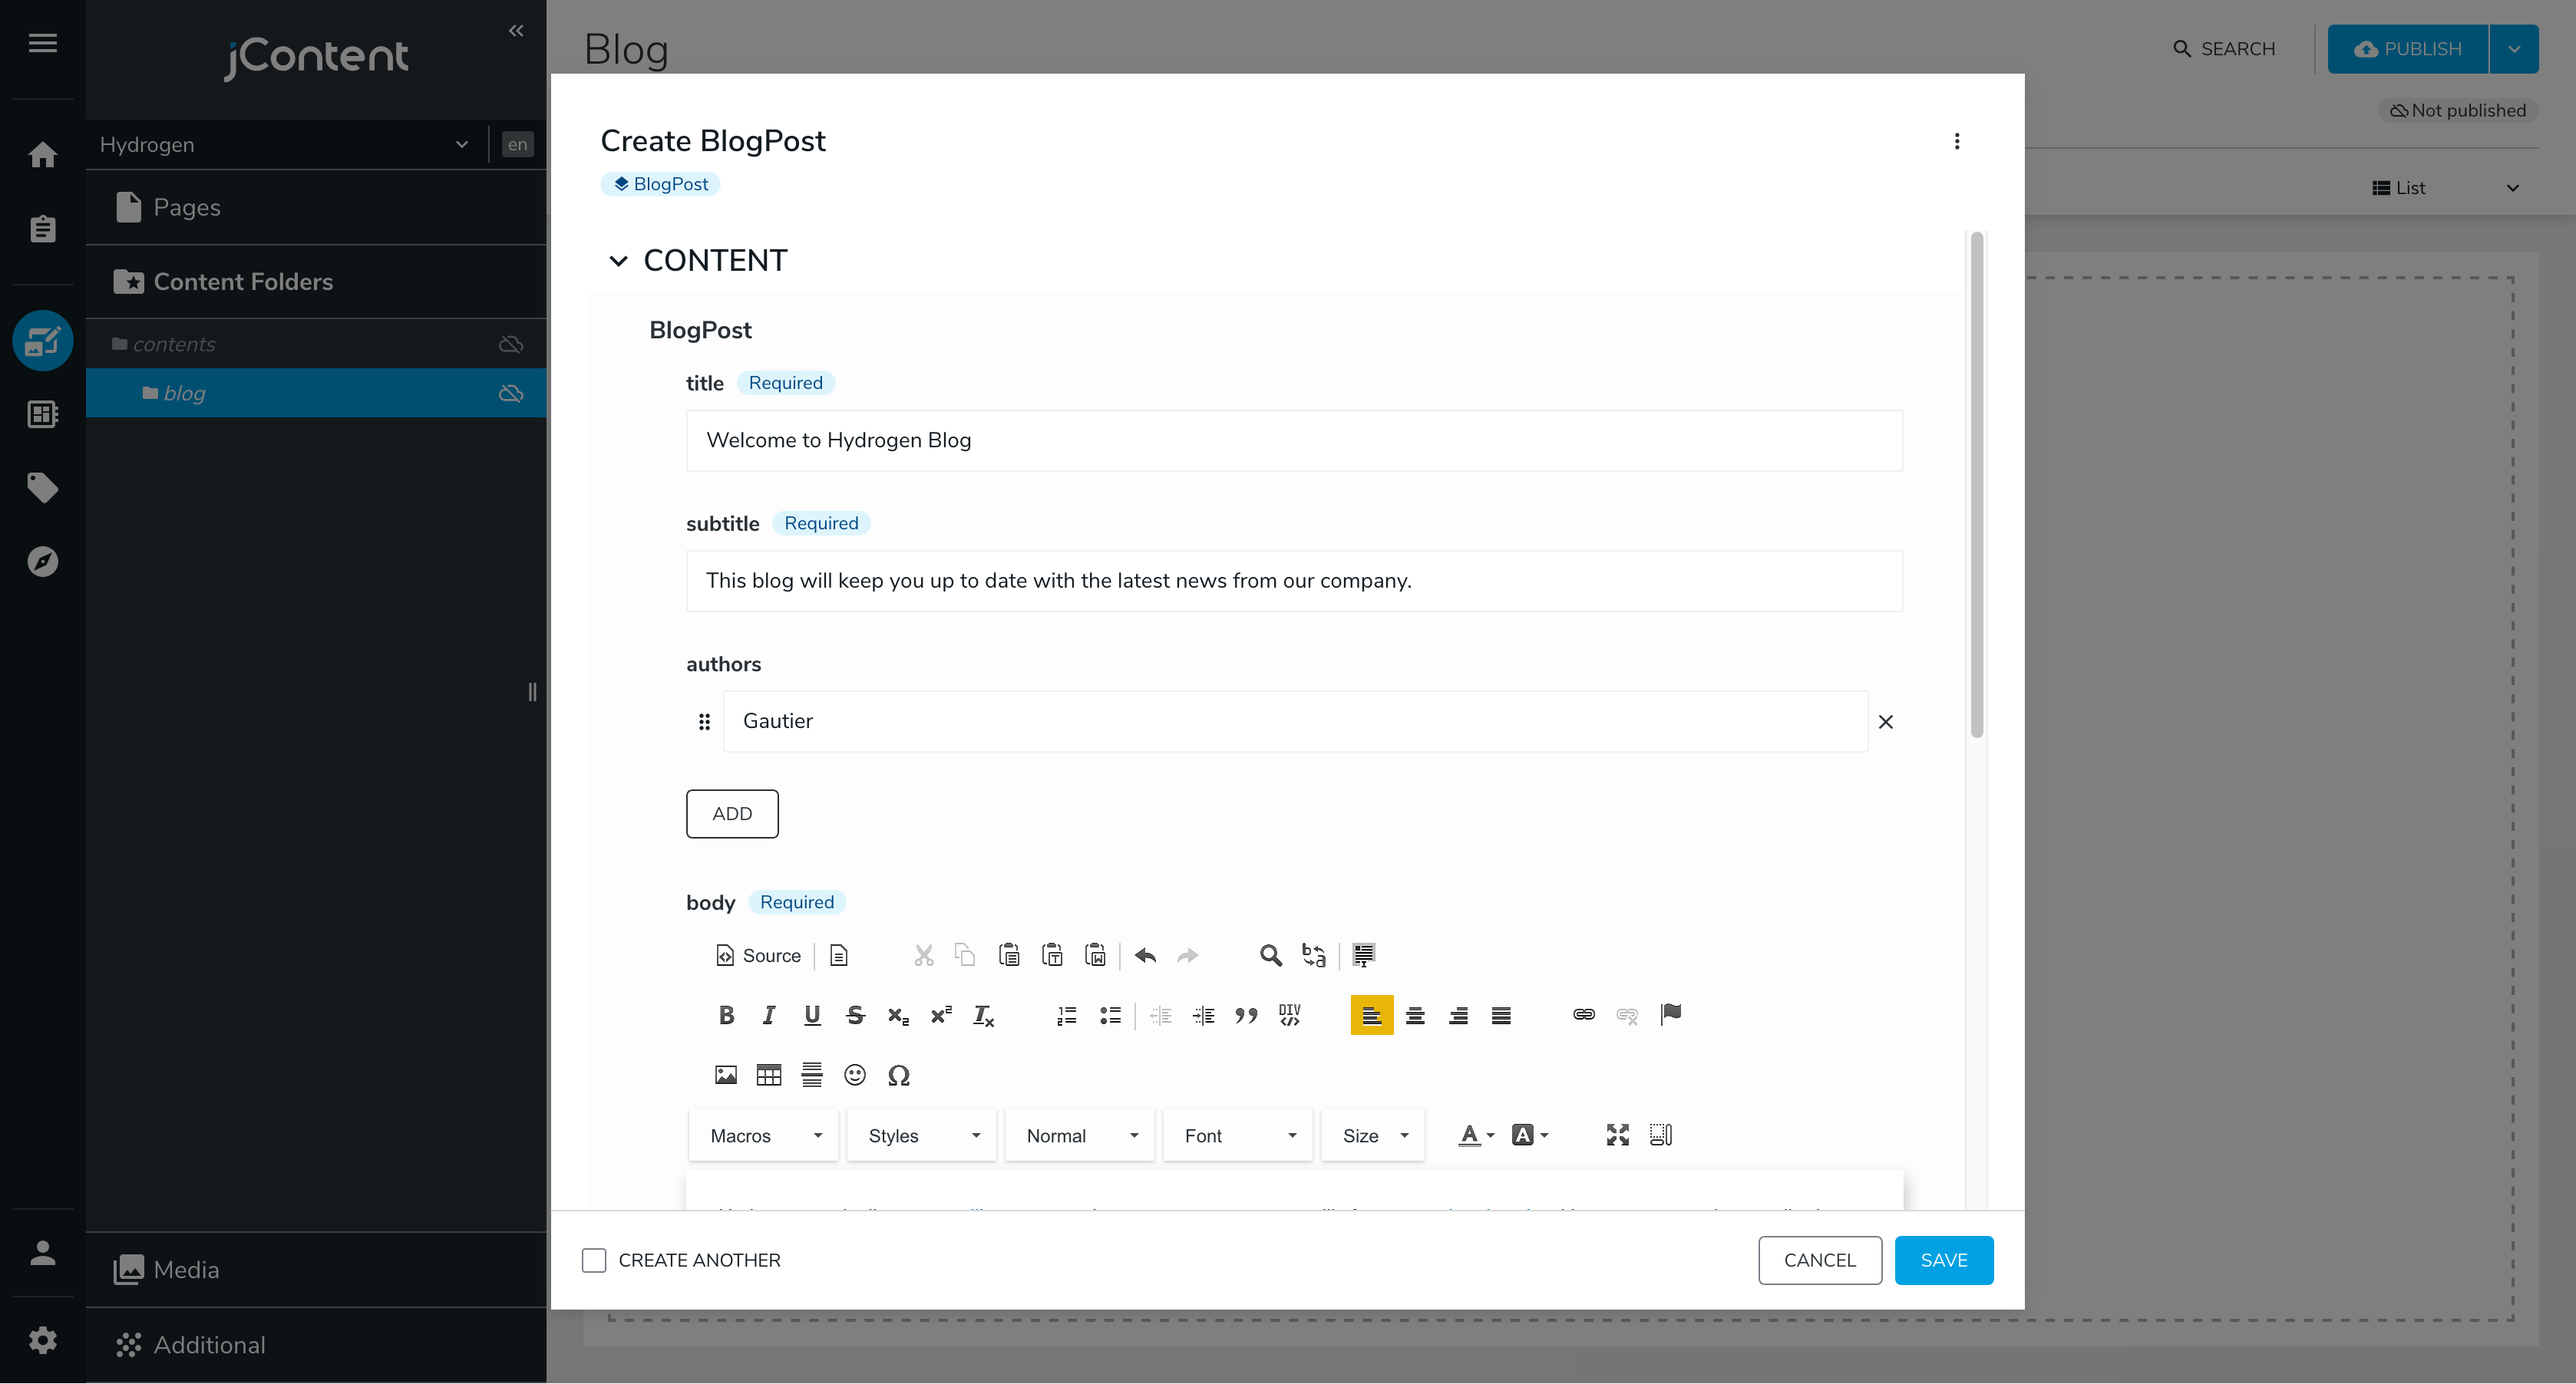
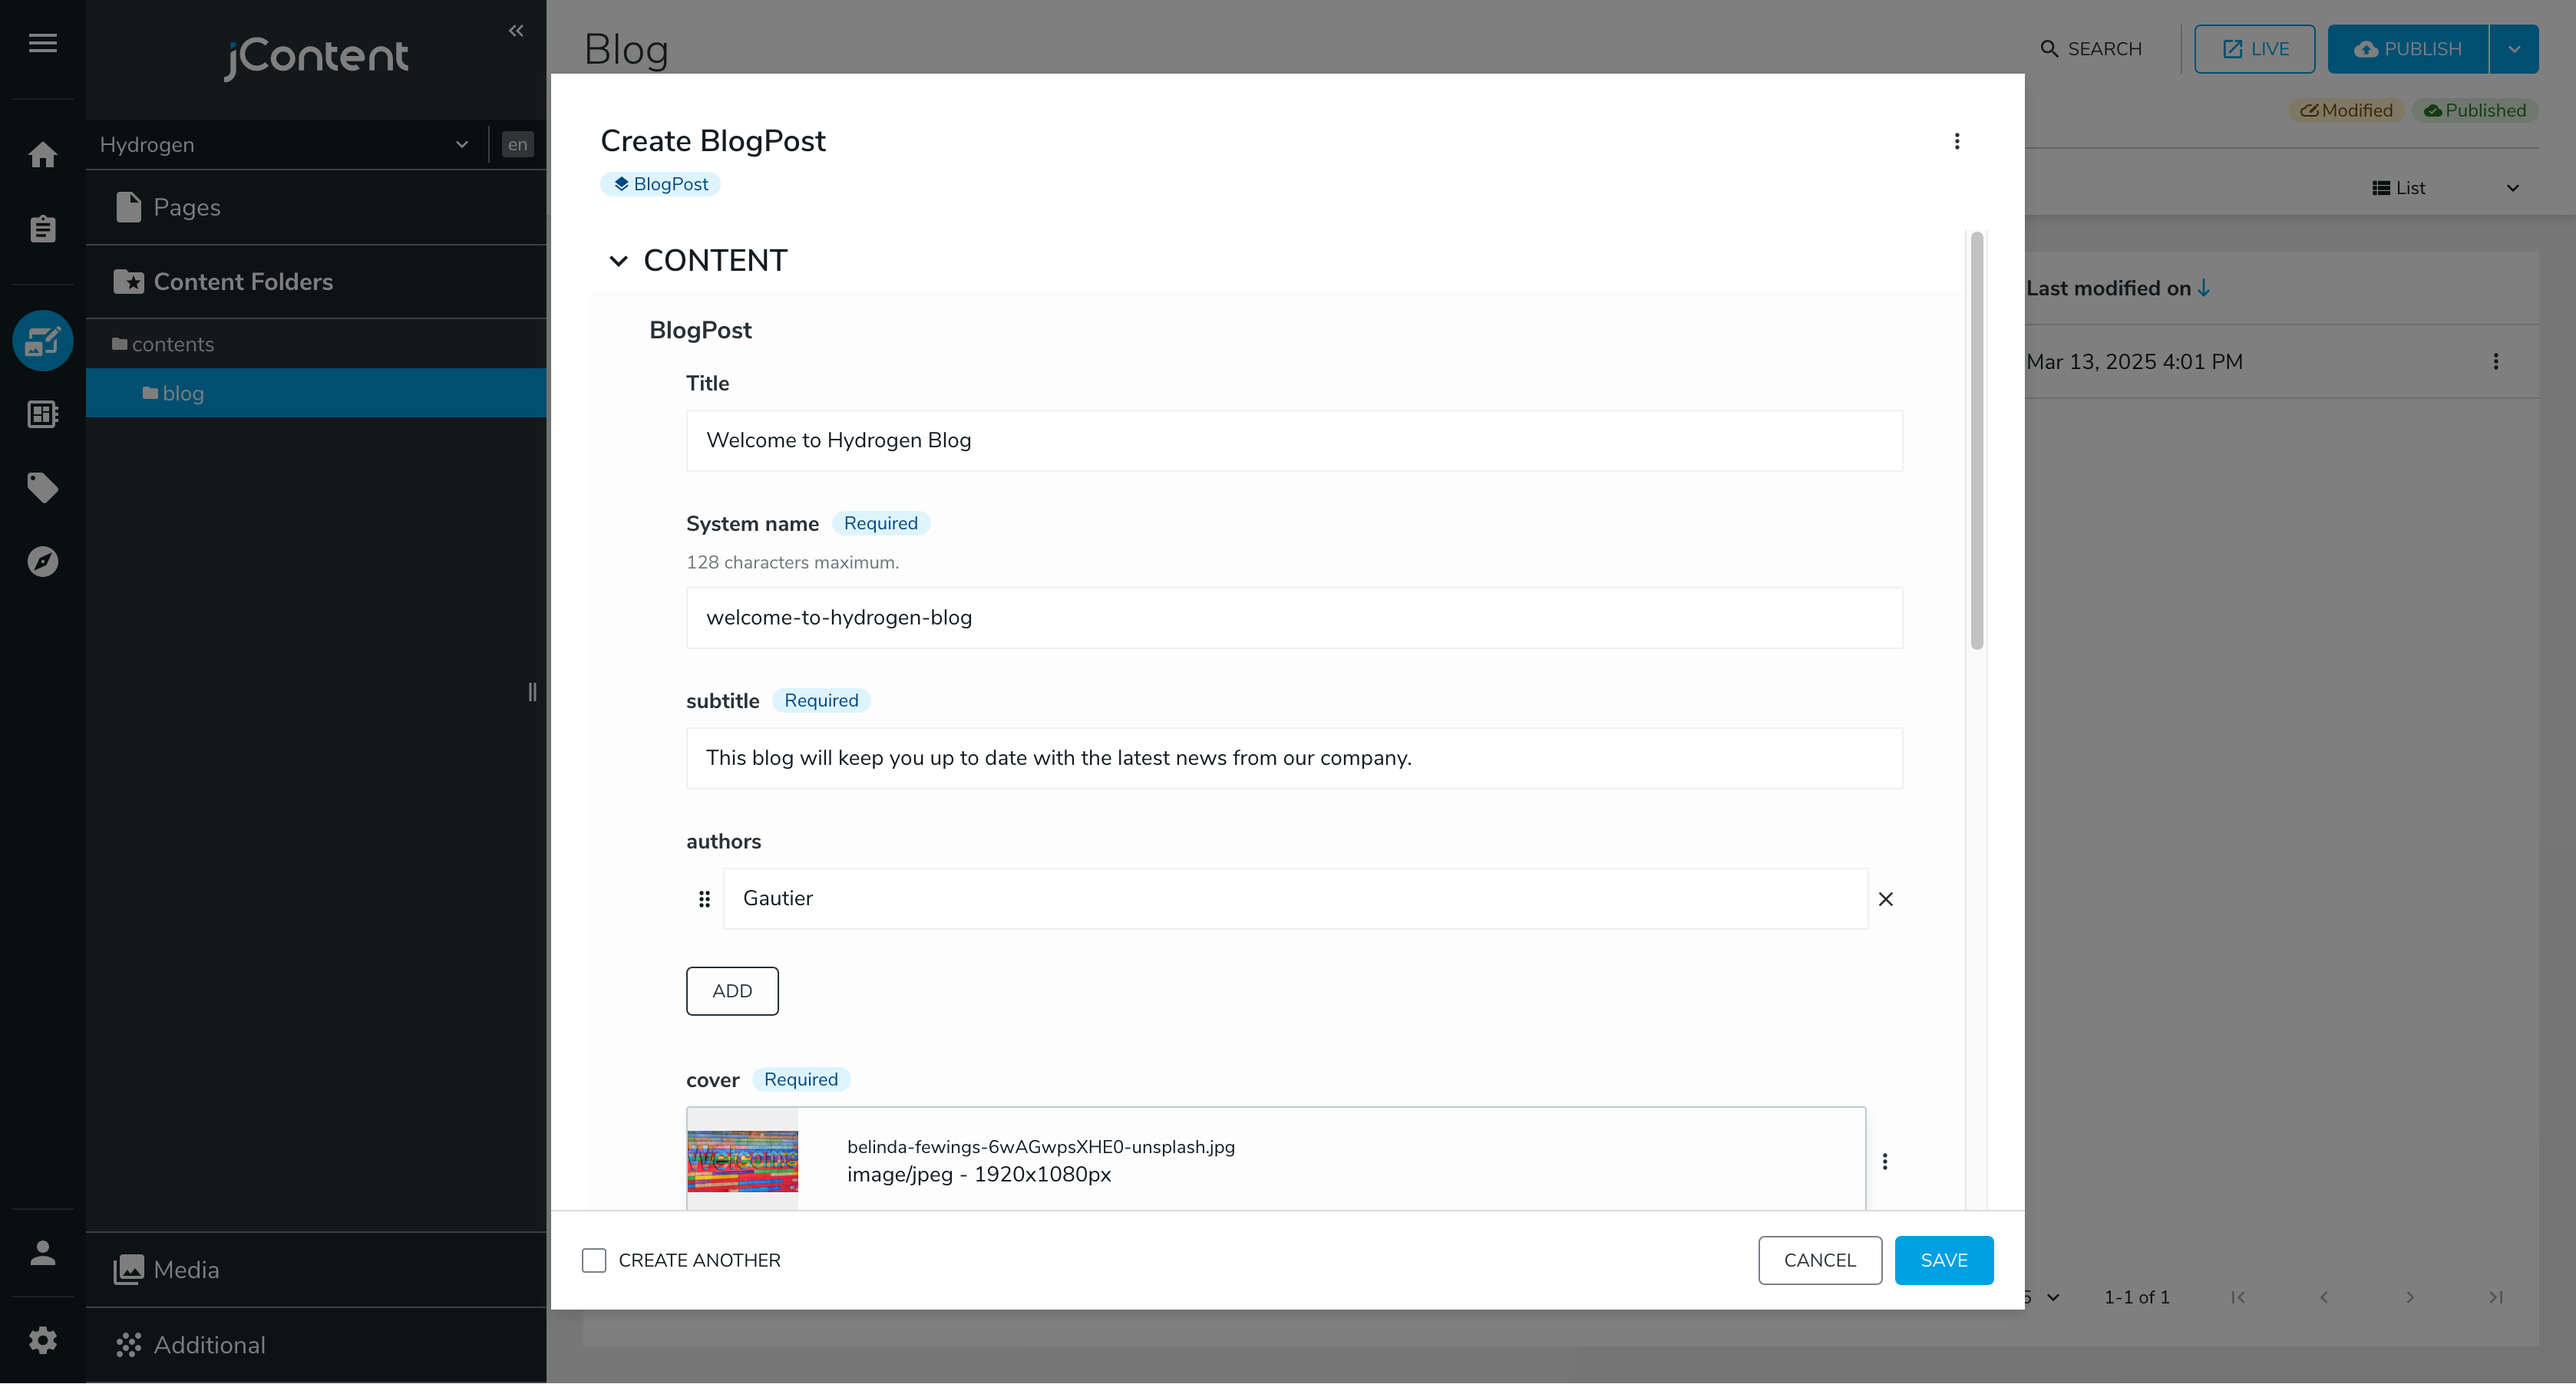
part 4 and 5

diff --git a/docs/1-getting-started/5-view-content-in-full-page/README.md b/docs/1-getting-started/5-view-content-in-full-page/README.md
@@ -1,3 +1,147 @@
 # View Content in Full Page
 
-A blog article in full page
+The goal of this section is to render a full-page view of a content node. We'll continue with our blog example, and instead of a 404 page, we'll create a page to display a single blog post.
+
+## Full Page Views
+
+Full page renders leverage another `jahiaComponent` type: `template`. A template is like a view but for a full-page resource.
+
+Templates are a rather legacy feature in Jahia, dating back to the days when Jahia had a visual template builder. This distinction between view and templates makes less sense in a code editor, but it's still there. As a rule of thumb, we'll use views to render nodes and templates to create page structures.
+
+To implement this rule, we'll create a new file named `src/pages/mainResource.server.tsx` that will forward all full-page requests to a view of the same node named `fullPage`:
+
+```tsx
+import { jahiaComponent, Render } from "@jahia/javascript-modules-library";
+import { Layout } from "./Layout.jsx";
+
+jahiaComponent(
+  {
+    componentType: "template",
+    nodeType: "jmix:mainResource",
+  },
+  ({ "jcr:title": title }, { currentNode }) => (
+    <Layout title={title}>
+      <Render node={currentNode} view="fullPage" />
+    </Layout>
+  ),
+);
+```
+
+Thus, we will implement a `fullPage` view for our `BlogPost` node type. Create a new file named `src/components/BlogPost/fullPage.server.tsx`:
+
+```tsx
+import { AbsoluteArea, jahiaComponent } from "@jahia/javascript-modules-library";
+import type { Props } from "./types.js";
+import classes from "./component.module.css";
+import { SmallHeroSection } from "../Hero/Section/small.server.jsx";
+
+jahiaComponent(
+  {
+    componentType: "view",
+    nodeType: "hydrogen:BlogPost",
+    displayName: "Blog Post",
+    name: "fullPage",
+  },
+  (
+    { "jcr:title": title, subtitle, authors, publicationDate, cover, body }: Props,
+    { currentResource },
+  ) => (
+    <>
+      <SmallHeroSection title={title} subtitle={subtitle} background={cover} />
+      <main className={classes.main}>
+        <header>
+          <p>
+            Written {authors.length > 0 && <>by {authors.join(", ")} </>}
+            {publicationDate && (
+              <>
+                on{" "}
+                {new Date(publicationDate).toLocaleDateString(
+                  currentResource.getLocale().toString(),
+                  { dateStyle: "long" },
+                )}
+              </>
+            )}
+          </p>
+        </header>
+        <article dangerouslySetInnerHTML={{ __html: body }} />
+      </main>
+      <AbsoluteArea name="footer" />
+    </>
+  ),
+);
+```
+
+You can also update `component.module.css` to include a new class:
+
+```css
+.main {
+  margin: 2rem auto;
+  padding-inline: 1rem;
+  max-width: 40rem;
+}
+```
+
+This code contains of lot of things. Here are the most notable parts:
+
+- We reuse `SmallHeroSection` to render a hero section at the top of the page. To make it possible, you need to update `Hero/Section/small.server.jsx` with the following statement:
+
+  ```tsx
+  export const SmallHeroSection = jahiaComponent({
+    // ...
+  });
+  ```
+
+  The `jahiaComponent` function returns its second argument, the React component, to make it possible to reuse it in other components.
+
+  We forward props to the `SmallHeroSection` component, making it a very flexible component.
+
+- We used [`dangerouslySetInnerHTML`](https://react.dev/reference/react-dom/components/common#dangerously-setting-the-inner-html) to render the body of the blog post. Because the body is a rich text field, we can't render it as a string, as it would display HTML tags as `<p>content</p>` instead of rendering the content as HTML. This is a security risk, as it allows for XSS attacks: that's why editing content is restricted to trusted users.
+
+- We used `<AbsoluteArea name="footer" />` in the view to render the footer. This will display the footer component at the bottom of all blog posts.
+
+![Article displayed in full page](full-page-article.png)
+
+## Building URLs
+
+Wouldn't it be nice if at the end of the article we had a way to get back to the blog list? We can achieve this by building a URL to the blog list page.
+
+Let's introduce `useUrlBuilder`: it's a hook that creates URL builders, and URL builders are functions that create URLs to resources.
+
+Update your `fullPage.server.tsx` file to include the following hook:
+
+```tsx
+import { useUrlBuilder } from "@jahia/javascript-modules-library";
+
+// In your component function:
+const { buildNodeUrl } = useUrlBuilder();
+```
+
+This `buildNodeUrl` will transform a reference to a JCR node into a fully resolved URL. The node in question is `renderContext.getSite().getNode("blog")`: it resolves to `/sites/<site key>/blog`, where `blog` is the page listing all blog posts. If you have a different structure, you can adjust the path accordingly.
+
+From this node, we can build a URL to the blog list page:
+
+```tsx
+<article dangerouslySetInnerHTML={{ __html: body }} />
+<footer>
+  <p>
+    <a
+      // @ts-expect-error Java type aren't exposed this far
+      href={buildNodeUrl({ nodePath: renderContext.getSite().getNode("blog").getPath() })}
+    >
+      Back to blog home
+    </a>
+  </p>
+</footer>
+// ...
+```
+
+Appart from a node path, the `buildNodeUrl` helper takes other option parameters:
+
+- `extension` is the file extension to append to the URL. It defaults to `.html` when not provided.
+- `language` is the language to use to build the URL. It defaults to the current language.
+- `mode` can be `edit`, `preview` or `live` to create URLs for different modes. It defaults to the current mode.
+- `parameters` is an object of key-value pairs to append as query parameters to the URL.
+
+There is a lot more to learn about URL building, and it's the topic of the next section.
+
+Next: [Building a Navigation Bar](../6-building-a-nav-bar/)

diff --git a/docs/1-getting-started/4-making-a-blog/README.md b/docs/1-getting-started/4-making-a-blog/README.md
@@ -7,23 +7,26 @@ So far we only considered contributing pages visually, directly in Page Builder.
 Let's start by creating a node type called `BlogPost`. We'll keep it concise but feel free to add more fields if you need them. Create a new file named `src/components/BlogPost/definition.cnd`:
 
 ```cnd
-[hydrogen:BlogPost] > jnt:content, hydrogen:component
- - title (string) i18n mandatory
+[hydrogen:BlogPost] > jnt:content, mix:title, jmix:mainResource, hydrogen:component
  - subtitle (string) i18n mandatory
  - authors (string) multiple
+ - cover (weakreference, picker[type='image']) mandatory < jmix:image
  - body (string, richtext) i18n mandatory
 ```
 
-You might notice the `multiple` keyword next to authors: its allows setting a list of strings instead of a single one.
+You might notice the `multiple` keyword next to authors: its allows setting a list of strings instead of a single one. `mix:title` is a mixin that adds a `jcr:title` field to the node type.
 
 Create a `types.ts` file in the same folder:
 
 ```ts
+import type { JCRNodeWrapper } from "org.jahia.services.content";
+
 export type Props = {
-  title: string;
-  subtitle: string;
-  authors: string[];
-  body: string;
+  "jcr:title": string;
+  "subtitle": string;
+  "authors": string[];
+  "cover": JCRNodeWrapper;
+  "body": string;
 };
 ```
 
@@ -43,8 +46,9 @@ jahiaComponent(
     nodeType: "hydrogen:BlogPost",
     displayName: "Blog Post",
   },
-  ({ title, subtitle, authors }: Props, { currentNode }) => (
+  ({ "jcr:title": title, subtitle, authors, cover }: Props, { currentNode }) => (
     <article className={classes.card}>
+      <img src={cover.getUrl()} alt="" />
       <h3>
         <a href={currentNode.getUrl()}> {title}</a>
       </h3>
@@ -62,7 +66,6 @@ jahiaComponent(
 ```css
 .card {
   margin-block: 1rem;
-  padding-inline: 1rem;
   box-shadow: 0 0 0.5rem 0 #0002;
   border-radius: 0.5rem;
   contain: paint;
@@ -74,6 +77,17 @@ jahiaComponent(
   &:focus-within {
     box-shadow: 0 0 1rem 0 #0004;
     transform: scale(1.02);
+  }
+
+  > img {
+    width: 100%;
+    max-height: 8rem;
+    object-fit: cover;
+  }
+
+  > h3,
+  > p {
+    margin: 1rem;
   }
 
   a {
@@ -103,8 +117,6 @@ Create a few blog posts in this folder:
 
 ![Blog post edition interface](new-blog-post.png)
 
-You can set a pretty URL in **Options > System > System name**.
-
 ## Listing Articles
 
 Let's get back to the **Pages** tab of the sidebar. Create a new page named "Blog" with a **Single column** layout. Create a Hero section on top of the page to introduce the list of articles.
@@ -127,7 +139,7 @@ You can also add a rich text above and below the list of articles to introduce a
 
 ![Preview of the Blog page](blog-page.png)
 
-[Cover image by RetroSupply on Unsplash.](https://unsplash.com/photos/vintage-teal-typewriter-beside-book-jLwVAUtLOAQ)
+[Cover image by RetroSupply on Unsplash](https://unsplash.com/photos/vintage-teal-typewriter-beside-book-jLwVAUtLOAQ), article images by [Belinda Fewings on Unsplash](https://unsplash.com/photos/3d-painting-of-welcome-6wAGwpsXHE0) and [Olga Tutunaru on Unsplash](https://unsplash.com/photos/white-book-page-on-white-textile-plbb7pkEjkQ).
 
 If you click on a blog post, you'll end up on a 404 error page. We'll take care of that in the next section. But for now...
 
@@ -144,16 +156,19 @@ It's not marked as `mandatory` because we can't add a mandatory field to an exis
 You also need to update the `types.ts` file:
 
 ```ts
+import type { JCRNodeWrapper } from "org.jahia.services.content";
+
 export type Props = {
-  title: string;
-  subtitle: string;
-  authors: string[];
-  body: string;
-  publicationDate?: string;
+  "jcr:title": string;
+  "subtitle": string;
+  "authors": string[];
+  "cover": JCRNodeWrapper;
+  "body": string;
+  "publicationDate": string;
 };
 ```
 
-`publicationDate` is a string because it's a date in the ISO 8601 format. As the native `Date` object does not properly handle time zones, it's easier to handle dates as strings.
+`publicationDate` is a string because it's a date in the ISO 8601 format. As the native `Date` object does not properly handle time zones, it's easier to handle dates as strings if your application requires time zone support.
 
 We can also update our JCR query to order the posts by publication date, and only show published posts:
 
@@ -183,6 +198,8 @@ Finally, it would be nice to display the publication date on the blog post card.
   )}
 </p>
 ```
+
+We used `currentResource.getLocale().toString()` to get the locale of the current resource. This is useful when you want to format dates or numbers according to the current locale. We forward this locale to [`Date.toLocaleDateString`](https://developer.mozilla.org/en-US/docs/Web/JavaScript/Reference/Global_Objects/Date/toLocaleDateString) to format the publication date in a human-readable way.
 
 There are a lot of things to discover about JCR queries, as it allows you to query, filter, order and paginate contents in a tree-like structure. You can find more information in the [Jahia documentation](https://academy.jahia.com/documentation/jahia-cms/jahia-8.2/developer/leveraging-jahia-backend-capabilities/jcrsql2-query-cheat-sheet).
 
